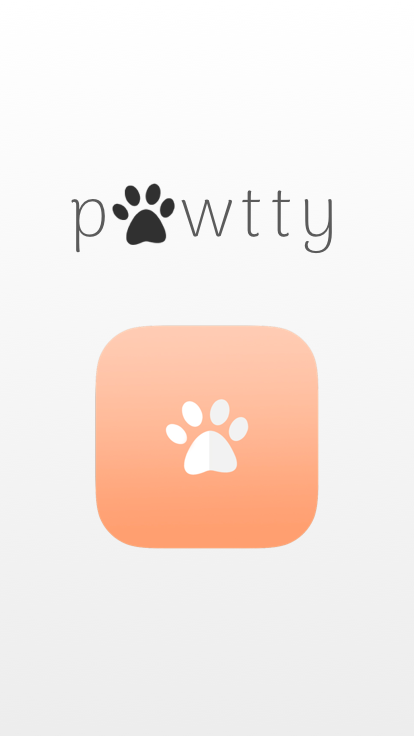
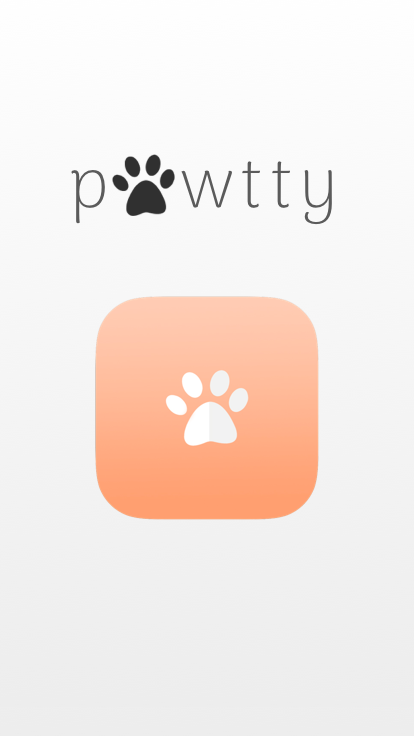
no message

diff --git a/pawtty.html b/pawtty.html
@@ -92,7 +92,10 @@
 
   <div class="main" id="top">
     <div class="cover" style="background-color:#fff; padding-top:12vh;">
+  <div data-aos="fade-up"><img src="pawtty/photomockup01.png" width="100%"><br/><br/>
 
+
+</div>
       <div data-aos="fade-up">
         <h1>
           Pawtty<span style="font-family:overpass;color:#fda57d;">.</span>
@@ -171,7 +174,7 @@ update my designs to adhere more closely to Apple HCI guidelines.  Stay posted!
 
 
 
-<img src="pawtty/photomockup01.png" width="100%">
+
 
 
 
